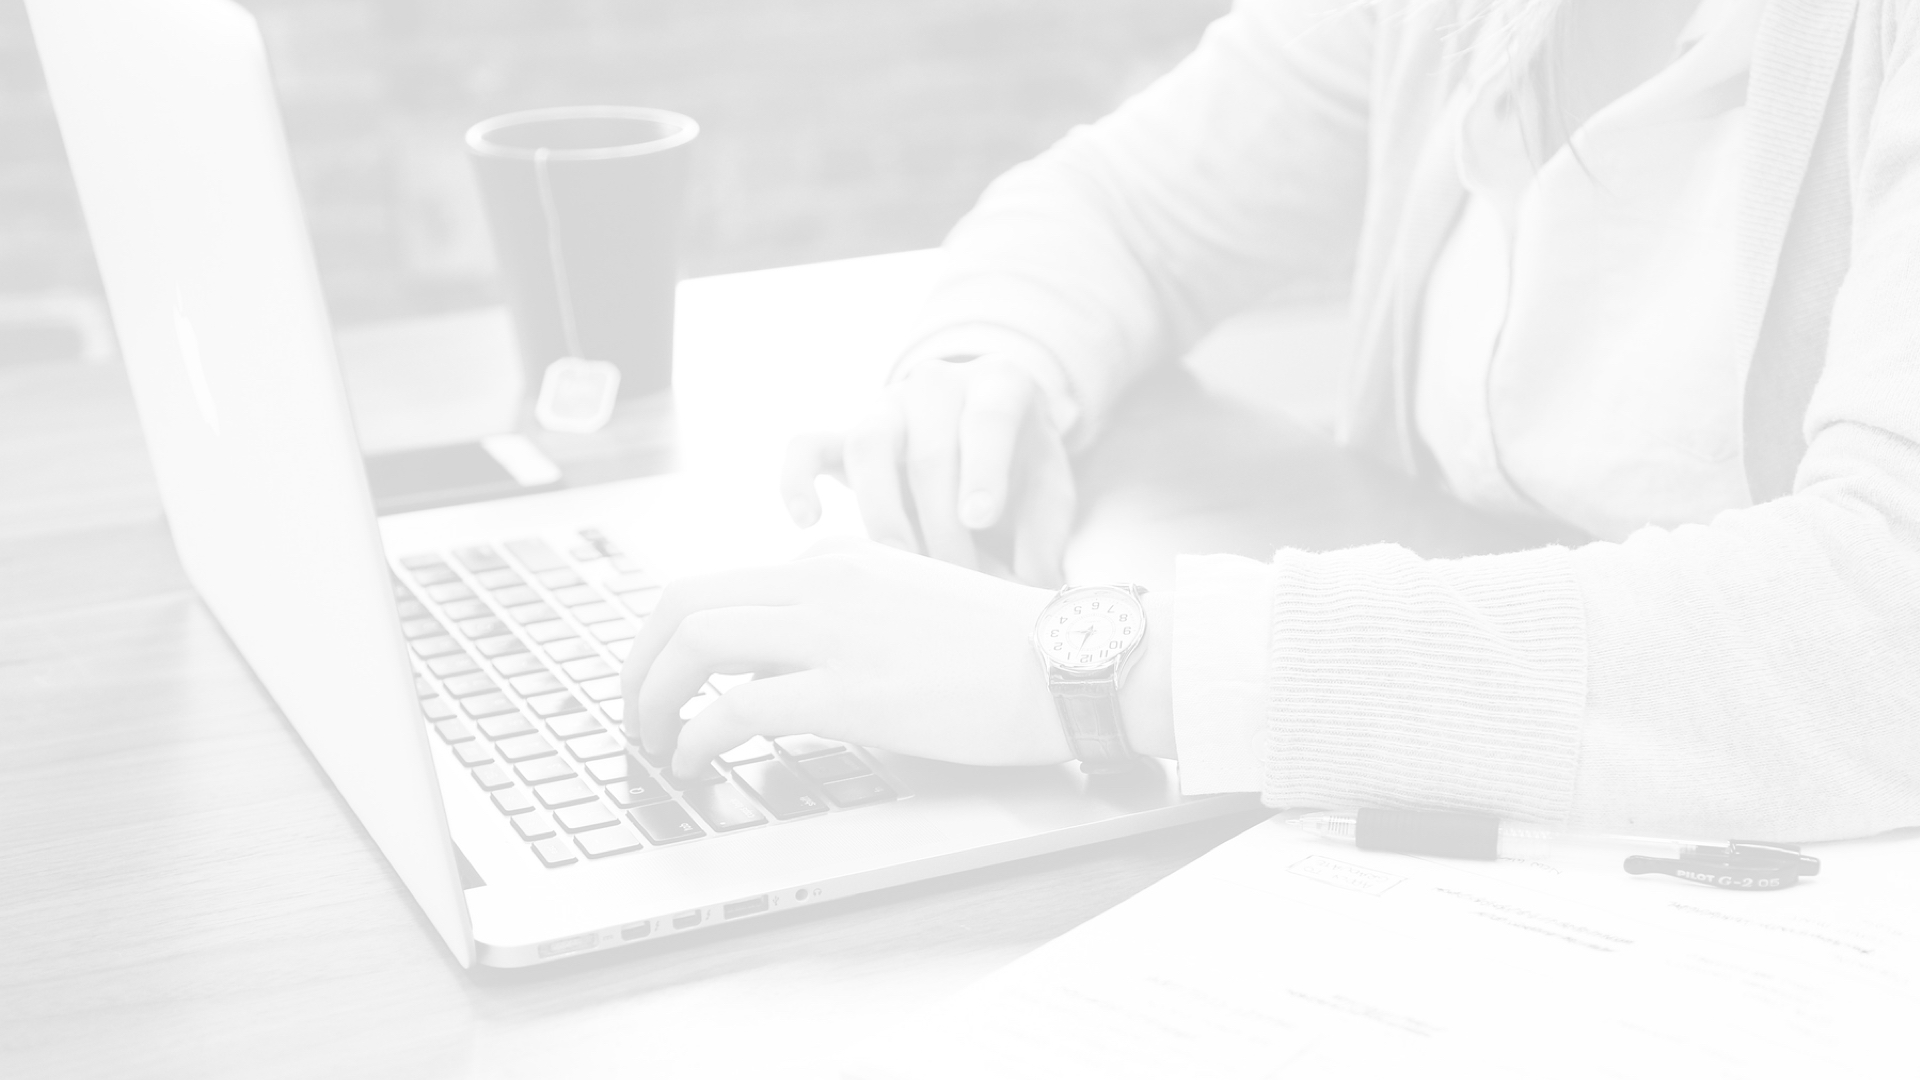
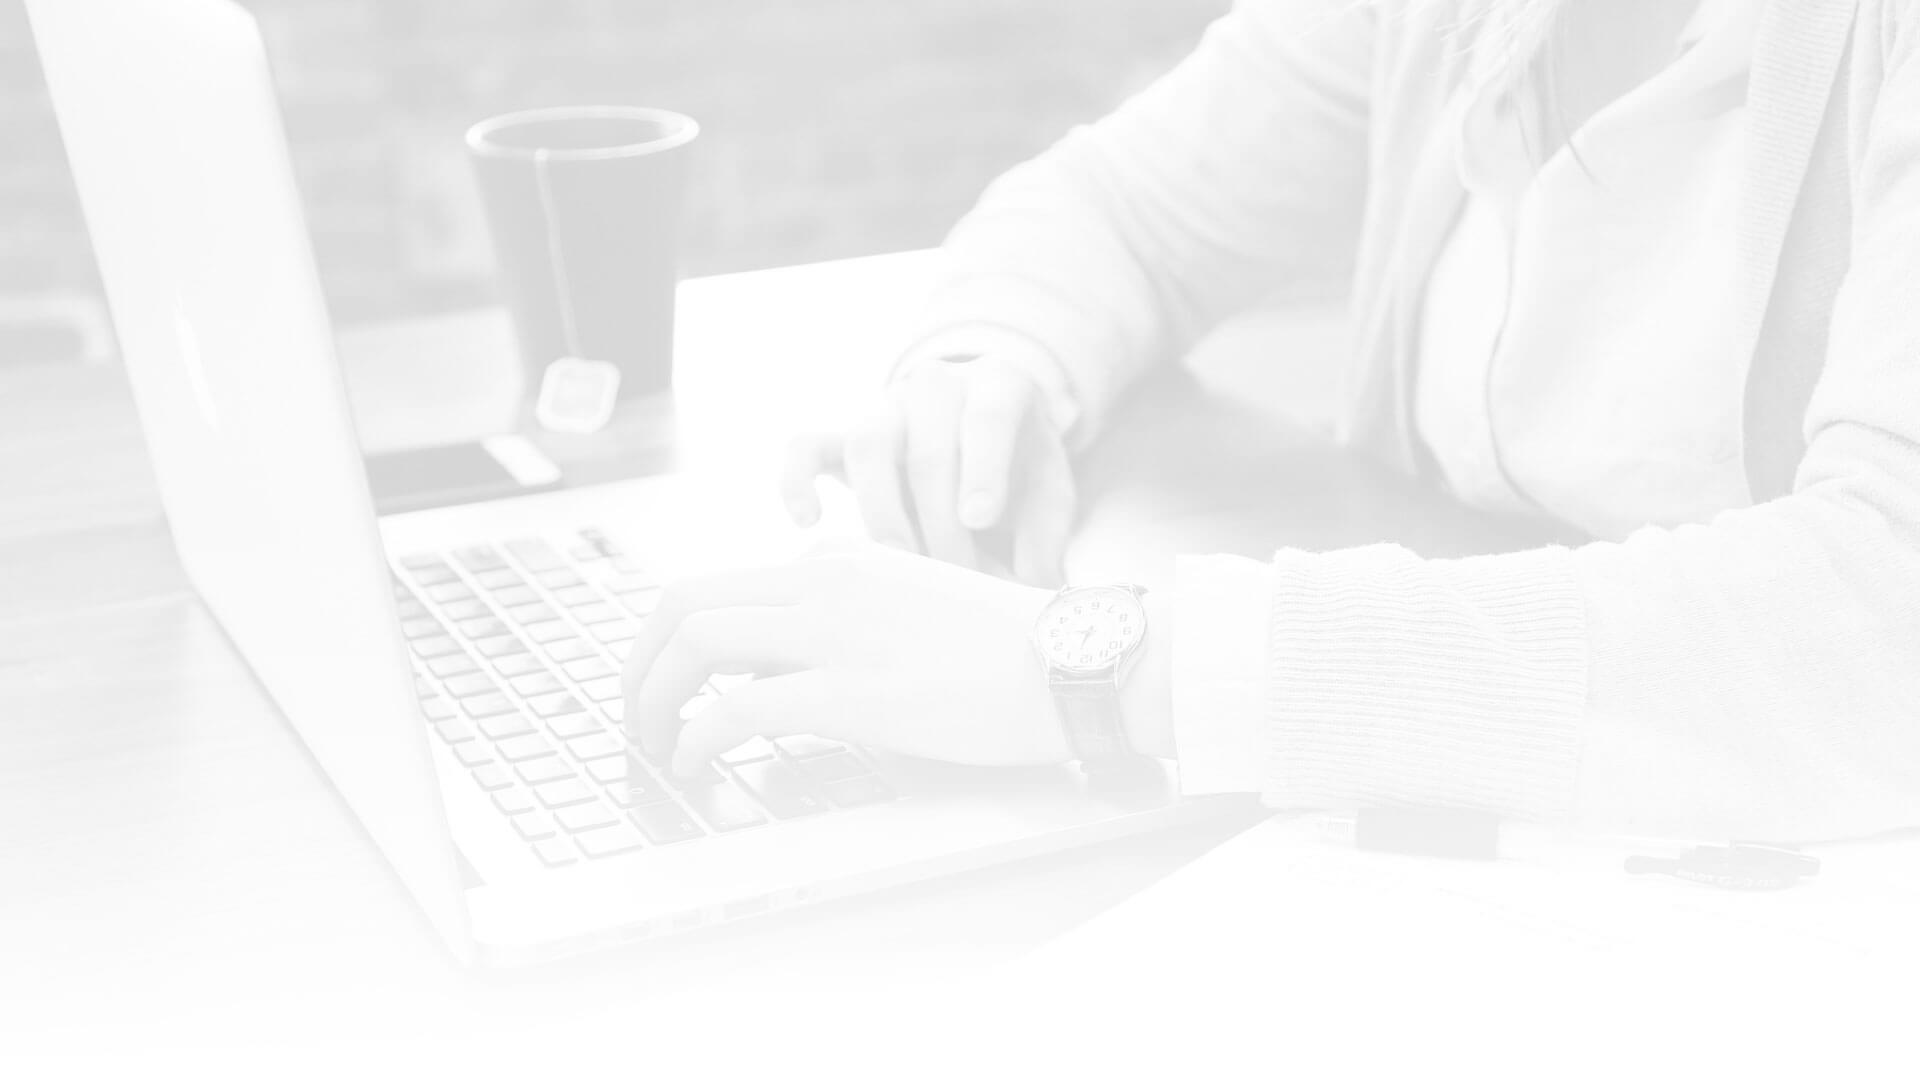
BAP-17054: Code review - update translactions - update twig templates - add variables for commerce-demo styles - change bg image

diff --git a/src/Oro/Bundle/UIBundle/Resources/public/css/scss/oro/form-signin.scss b/src/Oro/Bundle/UIBundle/Resources/public/css/scss/oro/form-signin.scss
@@ -1,6 +1,6 @@
 /* Login + Forgot Password */
 .login-page {
-    background: url("../../img/background.jpg") no-repeat 50% 50% #f7f7f7 fixed;
+    background: url("../../img/background.jpg") no-repeat 50% 50% #fff;
     background-size: cover;
     height: 100%;
     min-height: 280px;
@@ -53,6 +53,10 @@
 
         &--forgot {
             padding-left: 0;
+        }
+
+        &--reset {
+            padding-left: 155px;
         }
     }
 
@@ -174,6 +178,8 @@
         margin: 9px 10px 0 0;
     }
     .oro-forgot-password {
+        min-width: 270px;
+
         input {
             width: calc(100% - 24px);
         }
@@ -209,7 +215,7 @@
         & + input[type="text"],
         & + input[type="password"],
         & + select {
-            width: 156px;
+            width: calc(100% - 178px);
         }
     }
 }
